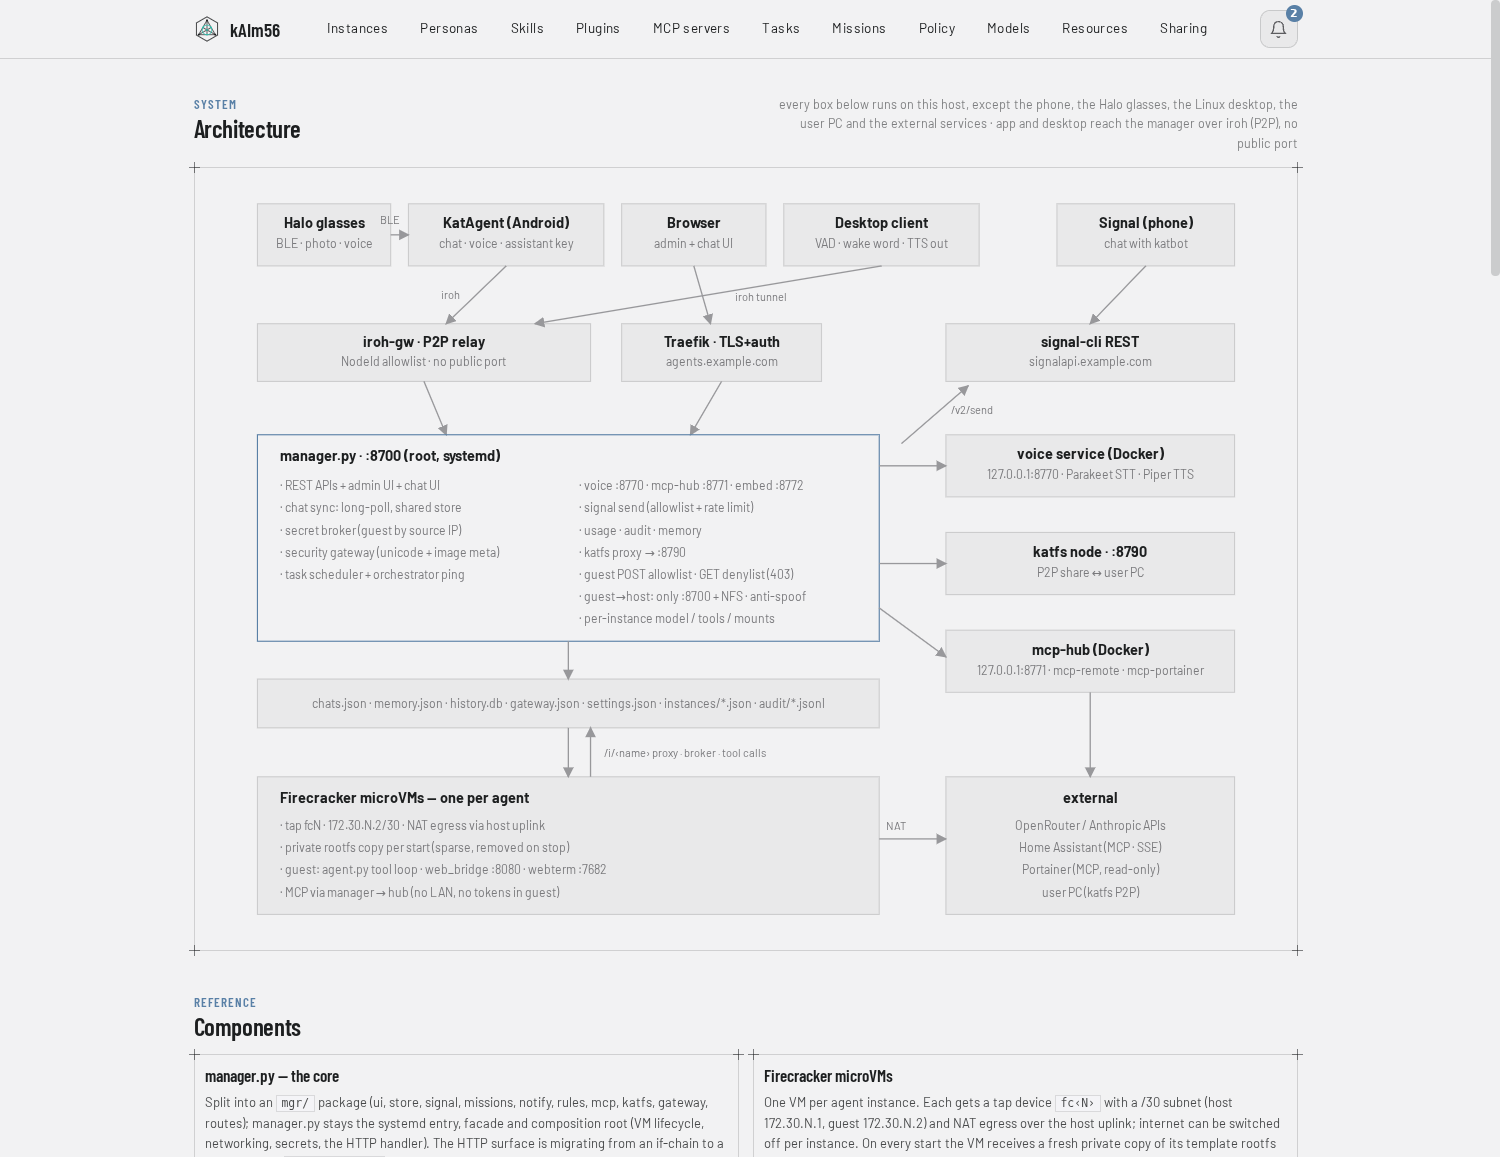
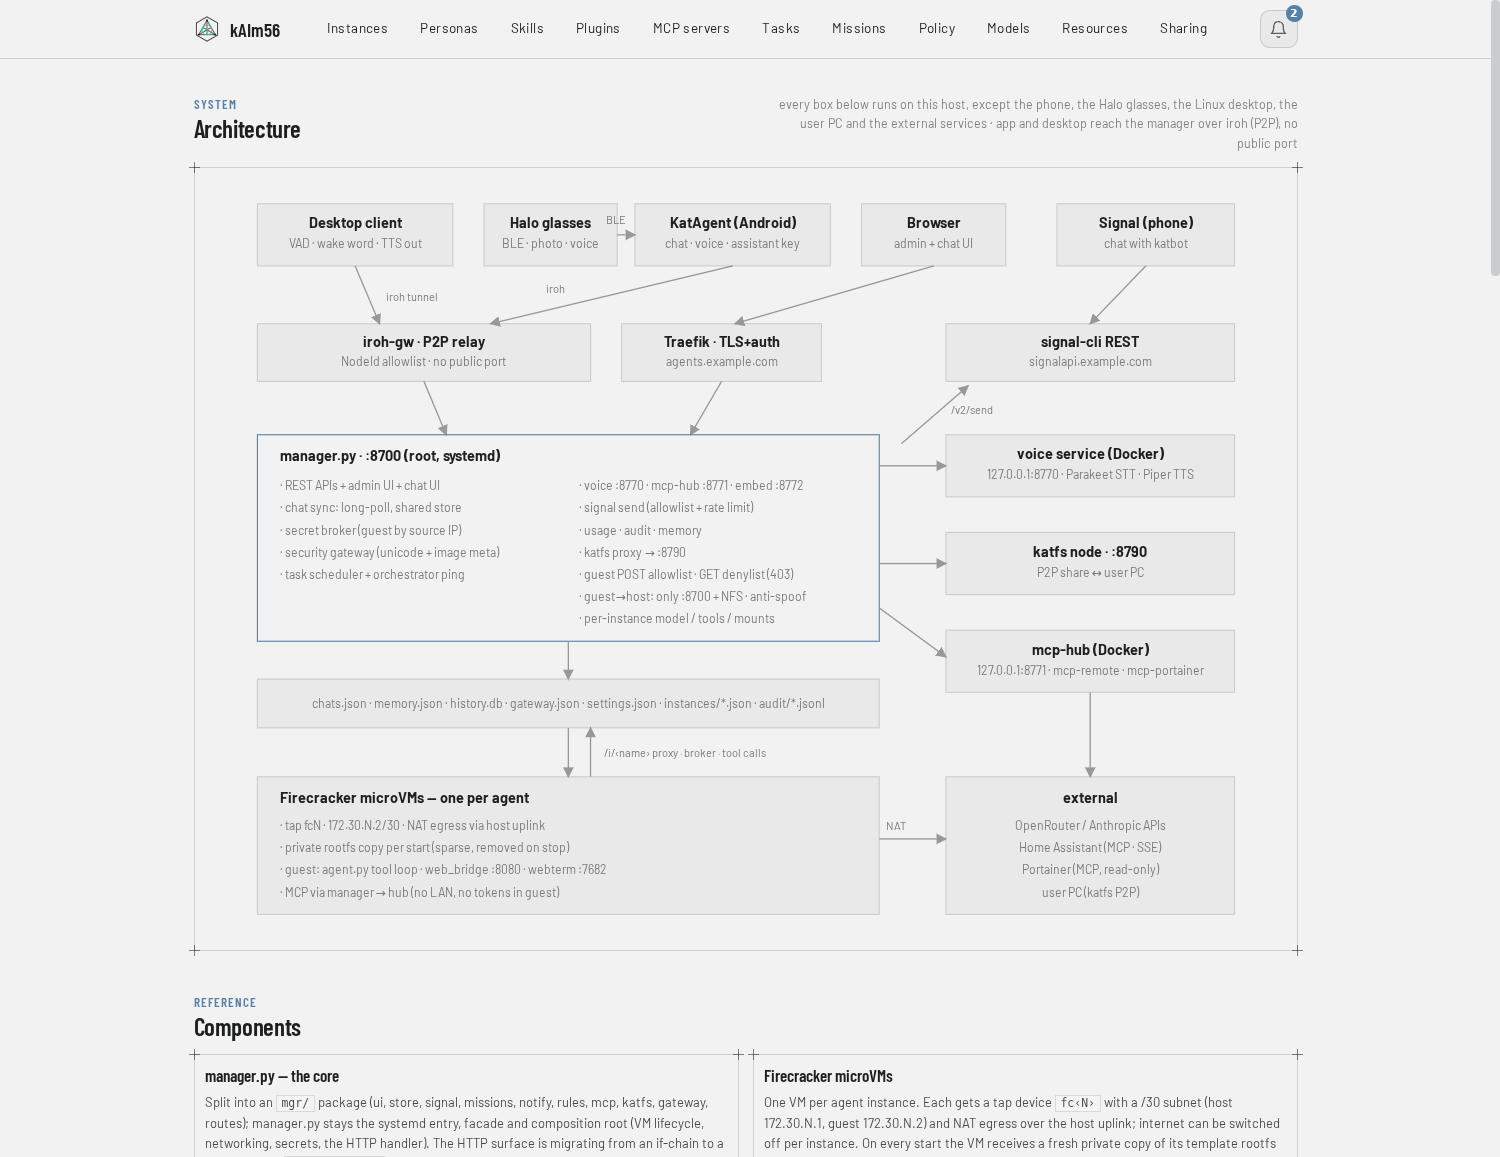
architecture tab: desktop client first in the client row; screenshot refreshed

diff --git a/manager/mgr/ui_html.py b/manager/mgr/ui_html.py
@@ -404,18 +404,18 @@ ARCH_SVG = """<svg id="archsvg" viewBox="0 0 960 672" style="width:100%;height:a
       <defs><marker id="arw" markerWidth="8" markerHeight="8" refX="7" refY="4" orient="auto">
         <path d="M0 0 L8 4 L0 8 z" fill="var(--color-neutral-500)"/></marker></defs>
 
-      <rect class="bx" x="40" y="16" width="120" height="56"/>
-      <text class="tt" x="100" y="38" text-anchor="middle">Halo glasses</text>
-      <text class="ss" x="100" y="56" text-anchor="middle">BLE &#183; photo &#183; voice</text>
-      <rect class="bx" x="176" y="16" width="176" height="56"/>
-      <text class="tt" x="264" y="38" text-anchor="middle">KatAgent (Android)</text>
-      <text class="ss" x="264" y="56" text-anchor="middle">chat &#183; voice &#183; assistant key</text>
-      <rect class="bx" x="368" y="16" width="130" height="56"/>
-      <text class="tt" x="433" y="38" text-anchor="middle">Browser</text>
-      <text class="ss" x="433" y="56" text-anchor="middle">admin + chat UI</text>
-      <rect class="bx" x="514" y="16" width="176" height="56"/>
-      <text class="tt" x="602" y="38" text-anchor="middle">Desktop client</text>
-      <text class="ss" x="602" y="56" text-anchor="middle">VAD &#183; wake word &#183; TTS out</text>
+      <rect class="bx" x="40" y="16" width="176" height="56"/>
+      <text class="tt" x="128" y="38" text-anchor="middle">Desktop client</text>
+      <text class="ss" x="128" y="56" text-anchor="middle">VAD &#183; wake word &#183; TTS out</text>
+      <rect class="bx" x="244" y="16" width="120" height="56"/>
+      <text class="tt" x="304" y="38" text-anchor="middle">Halo glasses</text>
+      <text class="ss" x="304" y="56" text-anchor="middle">BLE &#183; photo &#183; voice</text>
+      <rect class="bx" x="380" y="16" width="176" height="56"/>
+      <text class="tt" x="468" y="38" text-anchor="middle">KatAgent (Android)</text>
+      <text class="ss" x="468" y="56" text-anchor="middle">chat &#183; voice &#183; assistant key</text>
+      <rect class="bx" x="584" y="16" width="130" height="56"/>
+      <text class="tt" x="649" y="38" text-anchor="middle">Browser</text>
+      <text class="ss" x="649" y="56" text-anchor="middle">admin + chat UI</text>
       <rect class="bx" x="760" y="16" width="160" height="56"/>
       <text class="tt" x="840" y="38" text-anchor="middle">Signal (phone)</text>
       <text class="ss" x="840" y="56" text-anchor="middle">chat with katbot</text>
@@ -430,10 +430,10 @@ ARCH_SVG = """<svg id="archsvg" viewBox="0 0 960 672" style="width:100%;height:a
       <text class="tt" x="790" y="145" text-anchor="middle">signal-cli REST</text>
       <text class="ss" x="790" y="162" text-anchor="middle">__SIGNAL_HOST__</text>
 
-      <path class="ln" d="M160 44 L176 44" marker-end="url(#arw)"/><text class="lb" x="150" y="34">BLE</text>
-      <path class="ln" d="M264 72 L210 124"/><text class="lb" x="205" y="102">iroh</text>
-      <path class="ln" d="M433 72 L448 124"/>
-      <path class="ln" d="M602 72 L290 124"/><text class="lb" x="470" y="104">iroh tunnel</text>
+      <path class="ln" d="M364 44 L380 44" marker-end="url(#arw)"/><text class="lb" x="354" y="34">BLE</text>
+      <path class="ln" d="M468 72 L250 124"/><text class="lb" x="300" y="96">iroh</text>
+      <path class="ln" d="M649 72 L470 124"/>
+      <path class="ln" d="M128 72 L150 124"/><text class="lb" x="156" y="104">iroh tunnel</text>
       <path class="ln" d="M840 72 L790 124"/>
       <path class="ln" d="M190 176 L210 224"/>
       <path class="ln" d="M458 176 L430 224"/>

diff --git a/manager/CHANGELOG.md b/manager/CHANGELOG.md
@@ -1,5 +1,9 @@
 # Changelog
 
+## 2026-09-08 (architecture tab: desktop client moved to the left of the client row)
+
+- Client row reordered to Desktop client · Halo glasses → KatAgent · Browser · Signal; the iroh-tunnel arrow now runs straight down into iroh-gw, the app's iroh arrow and the browser's Traefik arrow re-routed without crossings. README screenshot of the tab regenerated the same way as this morning (headless Chrome over DevTools, names/costs/hosts masked).
+
 ## 2026-09-08 (GitHub with full history — after a history rewrite)
 
 - Validation before the switch: no password, API key or token in any tracked file or anywhere in the 148-commit history (secrets live only in `~/.config/kat56/secrets.env` and the gitignored `manager/settings.json`). The history DID carry personal data from early development: two real Signal phone numbers as template defaults in five commits, Home Assistant/Portainer LAN addresses in three old versions of `mcp-catalog.json`, one private cloud hostname, and the maintainer's private e-mail as author on 106 commits.
